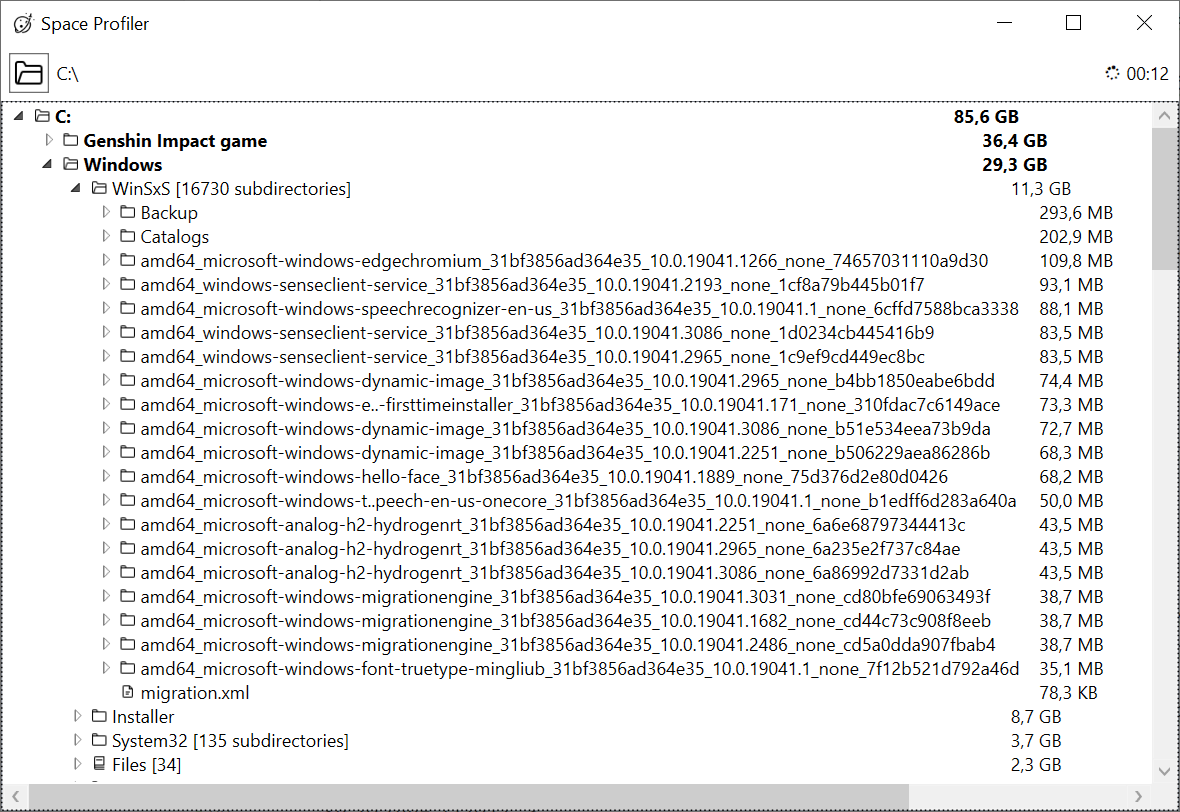
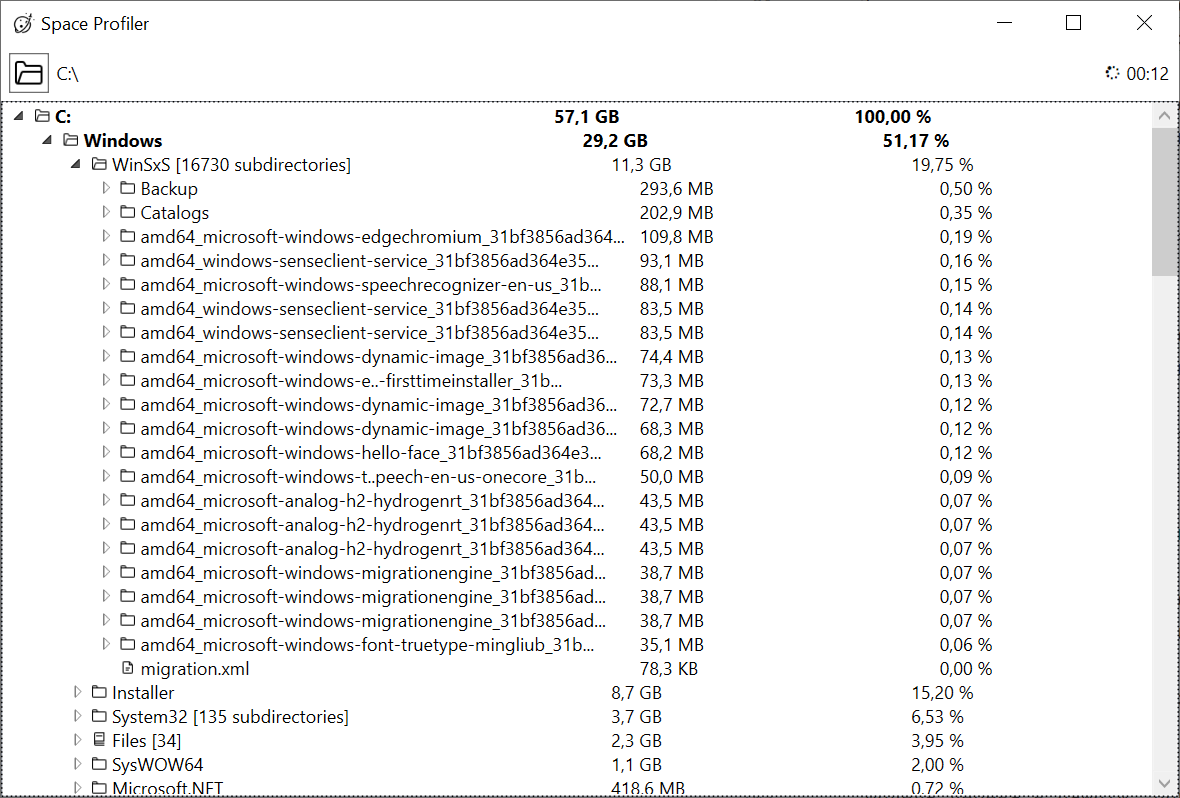
Cut long FileNames in UI and show tooltip on trimmed names

Changed region(s): [[0.0, 0.0602, 1.0, 1.0], [0.9763, 0.3308, 1.0, 0.3609]]

diff --git a/SpaceProfiler/MainWindow.xaml b/SpaceProfiler/MainWindow.xaml
@@ -10,6 +10,8 @@
         Title="Space Profiler" Height="450" Width="800" Icon="Icons\icons8-rocket-take-off-32.png">
     <Window.Resources>
         <local:TreeViewItemSortingConverter x:Key="SortingConverter" />
+        <local:TrimmedTextBlockVisibilityConverter x:Key="TrimmedVisibilityConverter" />
+        <local:TrimmingValueConverter x:Key="TrimmingValueConverter" />
     </Window.Resources>
     <DockPanel>
        <Grid DockPanel.Dock="Top" VerticalAlignment="Center" Margin="5">
@@ -67,8 +69,16 @@
                             <ColumnDefinition Width="Auto" SharedSizeGroup="C"></ColumnDefinition>
                         </Grid.ColumnDefinitions>
                         <StackPanel Orientation="Horizontal">
-                            <Image Source="{Binding Icon}" Width="11"/>
-                            <TextBlock Margin="3 0" Text="{Binding Name}" />
+                            <Image Source="{Binding Icon}" Width="11" Margin="0 0 3 0"/>
+                            <TextBlock Text="{Binding Name, Converter={StaticResource TrimmingValueConverter}}" TextWrapping="NoWrap">
+                                <TextBlock.ToolTip>
+                                    <ToolTip Visibility="{Binding Name, Converter={StaticResource TrimmedVisibilityConverter}}">
+                                        <ToolTip.Content>
+                                            <TextBlock Text="{Binding Name}"/>
+                                        </ToolTip.Content>
+                                    </ToolTip>
+                                </TextBlock.ToolTip>
+                            </TextBlock>
                         </StackPanel>
                         <TextBlock Grid.Column="1" Margin="10 0" Text="{Binding Size}" />
                         <TextBlock Grid.Column="2" Margin="10 0" Text="{Binding PercentFromRoot}" />

diff --git a/SpaceProfiler/TrimmedTextBlockVisibilityConverter.cs b/SpaceProfiler/TrimmedTextBlockVisibilityConverter.cs
@@ -1,0 +1,25 @@
+using System;
+using System.Windows;
+using System.Windows.Data;
+
+namespace SpaceProfiler;
+
+public class TrimmedTextBlockVisibilityConverter : IValueConverter
+{
+    public object Convert(object? value, Type targetType, object? parameter, System.Globalization.CultureInfo culture)
+    {
+        if (value is string content)
+        {
+            if (content.Length <= Constants.MaxNodeNameLength)
+                return Visibility.Hidden;
+            return Visibility.Visible;
+        }
+
+        return string.Empty;
+    }
+
+    public object ConvertBack(object? value, Type targetType, object? parameter, System.Globalization.CultureInfo culture)
+    {
+        throw new NotImplementedException();
+    }
+}

diff --git a/SpaceProfiler/TrimmingValueConverter.cs b/SpaceProfiler/TrimmingValueConverter.cs
@@ -1,0 +1,24 @@
+using System;
+using System.Windows.Data;
+
+namespace SpaceProfiler;
+
+public class TrimmingValueConverter : IValueConverter
+{
+    public object Convert(object? value, Type targetType, object? parameter, System.Globalization.CultureInfo culture)
+    {
+        if (value is string content)
+        {
+            if (content.Length <= Constants.MaxNodeNameLength)
+                return content;
+            return content.Substring(0, Constants.MaxNodeNameLength) + "...";
+        }
+
+        return string.Empty;
+    }
+
+    public object ConvertBack(object? value, Type targetType, object? parameter, System.Globalization.CultureInfo culture)
+    {
+        throw new NotImplementedException();
+    }
+}

diff --git a/SpaceProfiler/Constants.cs b/SpaceProfiler/Constants.cs
@@ -1,0 +1,6 @@
+namespace SpaceProfiler;
+
+public static class Constants
+{
+    public static readonly int MaxNodeNameLength = 50;
+}

diff --git a/README.md b/README.md
@@ -94,6 +94,12 @@
 <img src="img_7.png" width="800" alt="your-image-description" style="border: 1px solid  gray;">
 </p>
 
+### Отображение длинных названий
+<p align="center">
+<img src="img_10.png" width="800" alt="your-image-description" style="border: 1px solid  gray;">
+</p>
+Если название элемента превышает 50 символов, то оно будет обрезано и в конце добавится "...". Для таких элементов при наведении на них появляется tooltip с полным именем
+
 # Внутреннее устройство приложения
 ## SpaceProfiler
 Для обновления дерева в NodesUpdater создаётся фоновый поток. Раз в 500мс он получает изменения из модели и анализирует, что в отображении нужно обновить.
